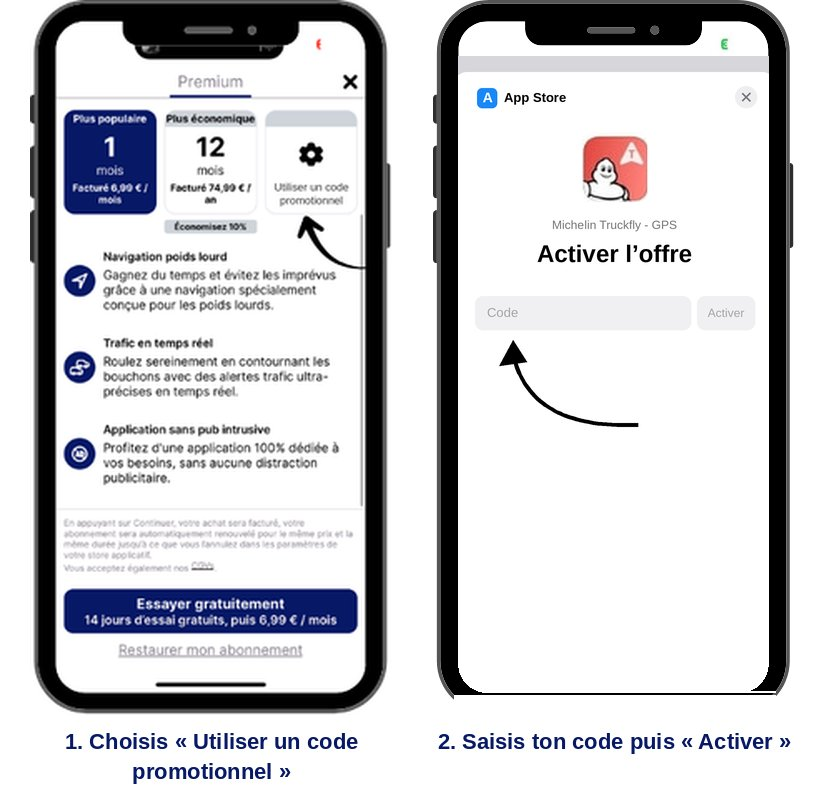
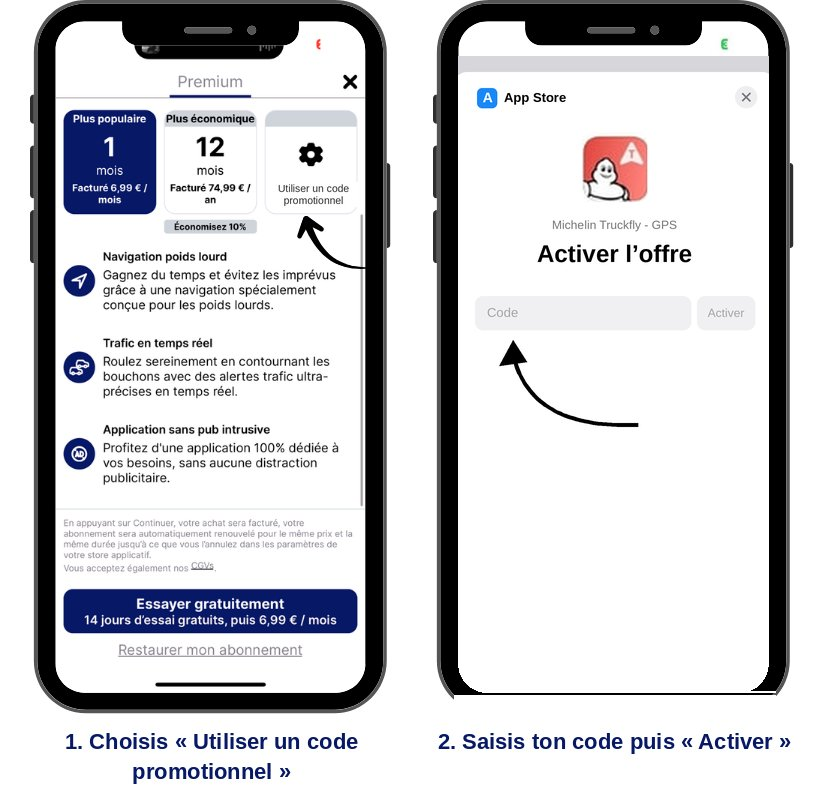
Trucker novembre : capture FR nette, case code promo corrigée
Claude-Session: https://claude.ai/code/session_013wGXFsHjKULAvSJCwRTRUj

diff --git a/newsletters/trucker/2026-11/captures/generer.py b/newsletters/trucker/2026-11/captures/generer.py
@@ -10,7 +10,7 @@ BOLD = "/usr/share/fonts/truetype/liberation/LiberationSans-Bold.ttf"
 S = 3  # suréchantillonnage
 
 T = {
- "fr": dict(tile=None, title="Activer l’offre", field="Code", btn="Activer",
+ "fr": dict(tile=["Utiliser un code", "promotionnel"], title="Activer l’offre", field="Code", btn="Activer",
             cap1="1. Choisis « Utiliser un code promotionnel »", cap2="2. Saisis ton code puis « Activer »"),
  "en": dict(tile=["Use a", "promotional code"], title="Redeem Offer", field="Code", btn="Redeem",
             cap1="1. Choose “Use a promotional code”", cap2="2. Enter your code, then “Redeem”"),
@@ -34,10 +34,8 @@ def flat(path):
     im = Image.new("RGB", src.size, (255, 255, 255)); im.paste(src, (0, 0), src); return im
 
 def premium(lang):
-    if lang == "fr":
-        return flat(B / "capture-premium-code-promo-corrigee.png").resize((363, 715), Image.LANCZOS)
     im = flat(D / f"premium-{lang}.png")
-    x0, y0, x1, y1 = (238, 182, 329, 207) if lang == "it" else (238, 191, 329, 217)
+    x0, y0, x1, y1 = (238, 182, 329, 207) if lang in ("it", "fr") else (238, 191, 329, 217)
     bg = im.getpixel((x0 + 2, y0 + 1))
     p = Image.new("RGB", ((x1 - x0) * S, (y1 - y0) * S), bg); d = ImageDraw.Draw(p)
     lines = T[lang]["tile"]
